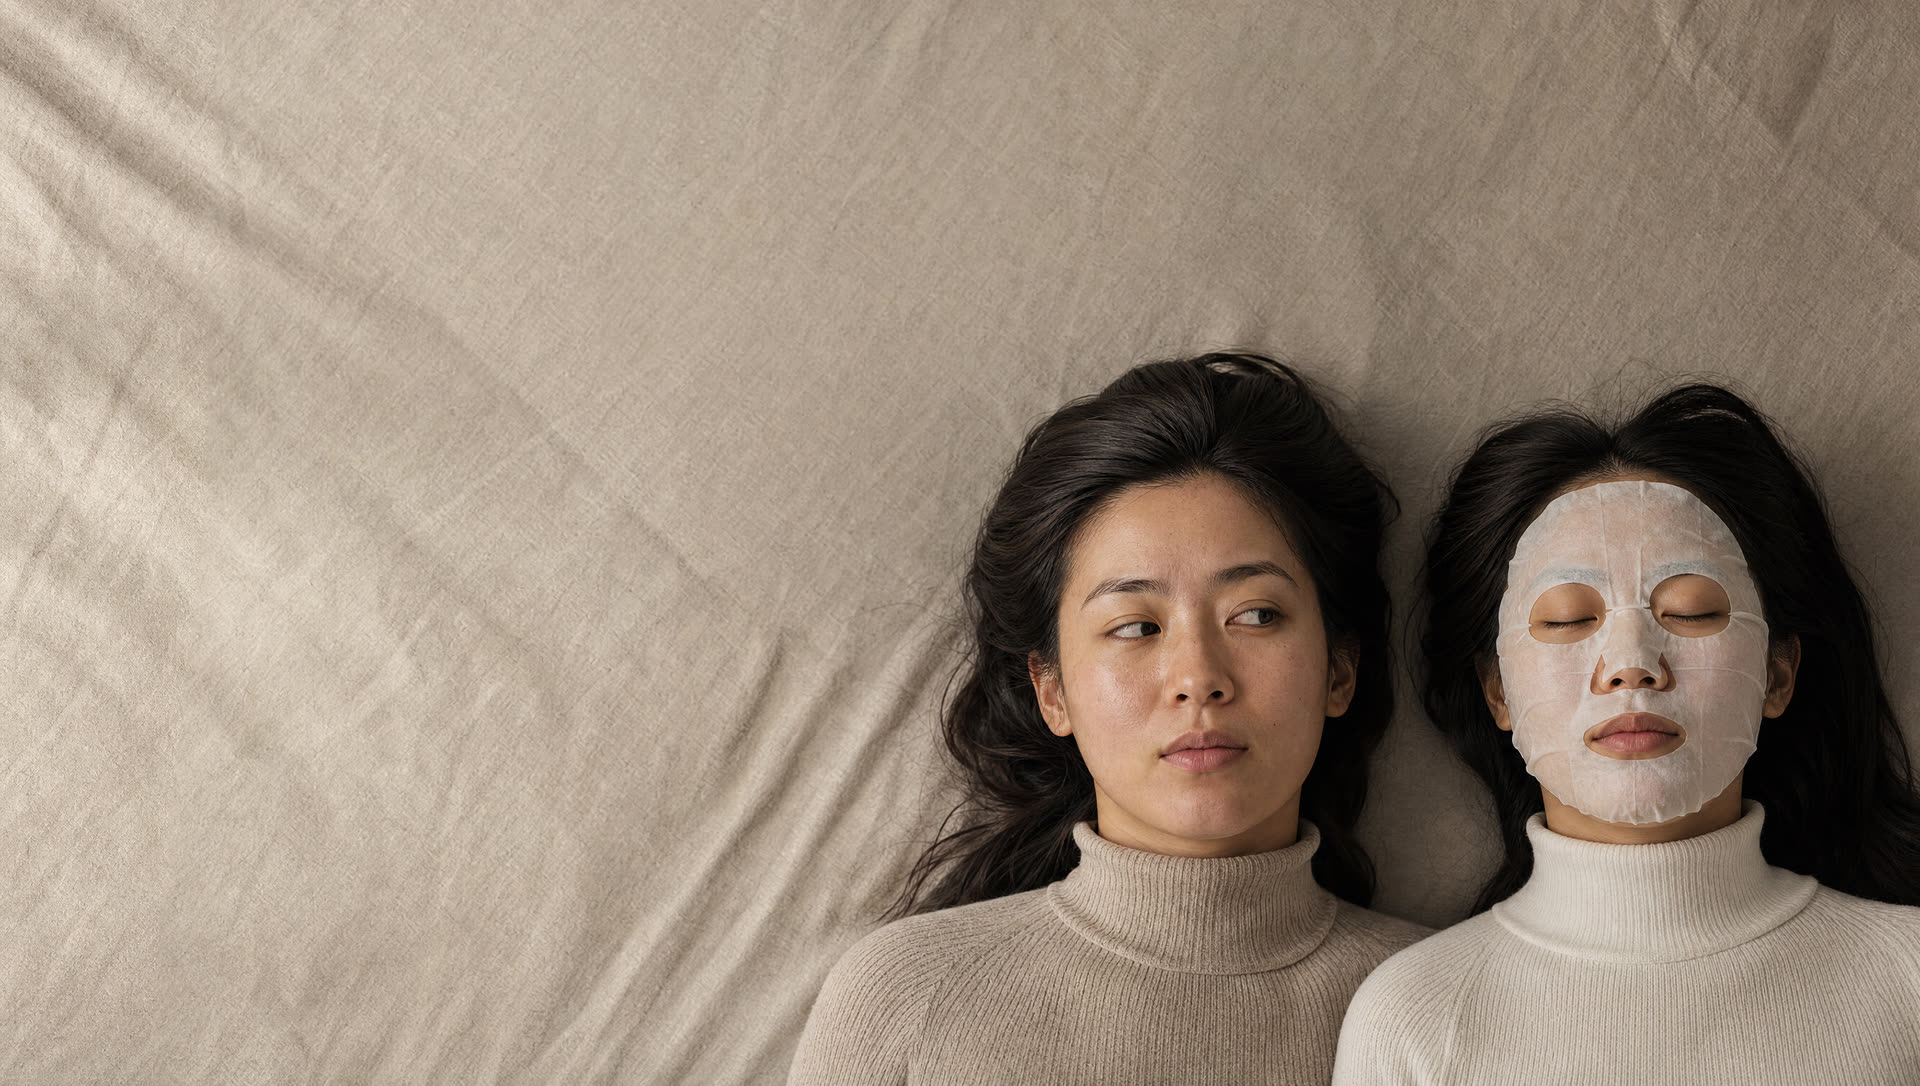
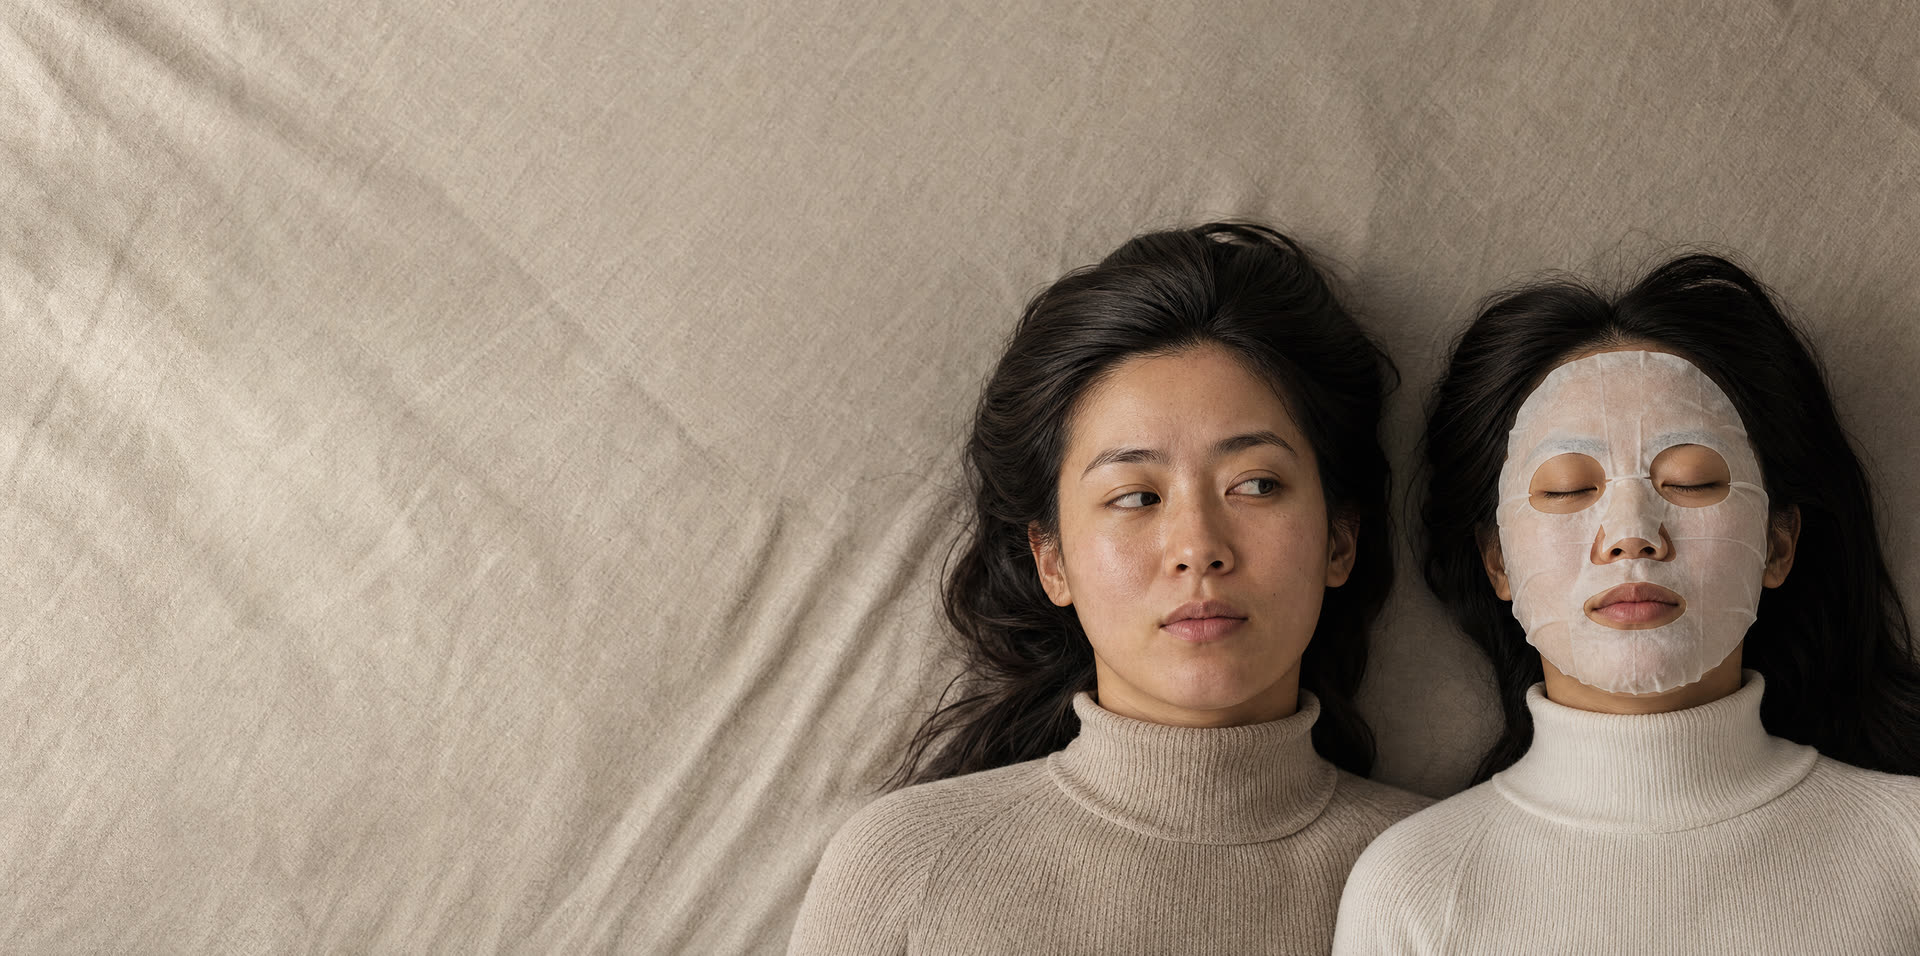
Crop the empty top band so the women fill the hero
The frame and the hero box were nearly the same aspect — 1.768 against 1.799
— so only 14px of the image was ever being cropped. object-position had
nothing to move, which is why the women sat small under a third of a frame of
empty linen.

Cropped 182px, 12%, off the top of the source. That band is bare sheet and
carries no subject, so nothing is lost. The frame goes to 2.008 against a
1.799 box, which turns the surplus into 166px of width instead.

That width comes off asymmetrically at object-position 64%: 106px from the
left, which is empty linen the copy sits over anyway, and 60px from the
right, keeping the masked woman's edge inside the frame at 95.8%. Split
evenly it would have clipped her at 94.2%.

Also reverted a min-height change that turned out to be inert — the hero's
height is set by its content, nav plus copy plus stats, not by the vw clamp.

Verified: copy text ends at 37%, nearest chip starts at 39%, no chip touches
another or any copy, no overflow, hero still fits the viewport.

diff --git a/index.html b/index.html
@@ -273,7 +273,10 @@ section{padding-block:var(--gap)}
 .hero-media{position:absolute;inset:0;z-index:-2;overflow:hidden;background:var(--hero-sand)}
 .hero-media img{
   width:100%;height:100%;object-fit:cover;
-  object-position:center;
+  /* The frame is 2.008 against a 1.799 box, so 166px comes off the width. All
+     of it should come off the left, which is empty linen, rather than be split
+     evenly and clip the masked woman at the right edge. */
+  object-position:64% center;
   display:block
 }
 /* Two washes rather than one. The copy now sits bottom-left, so the vertical
